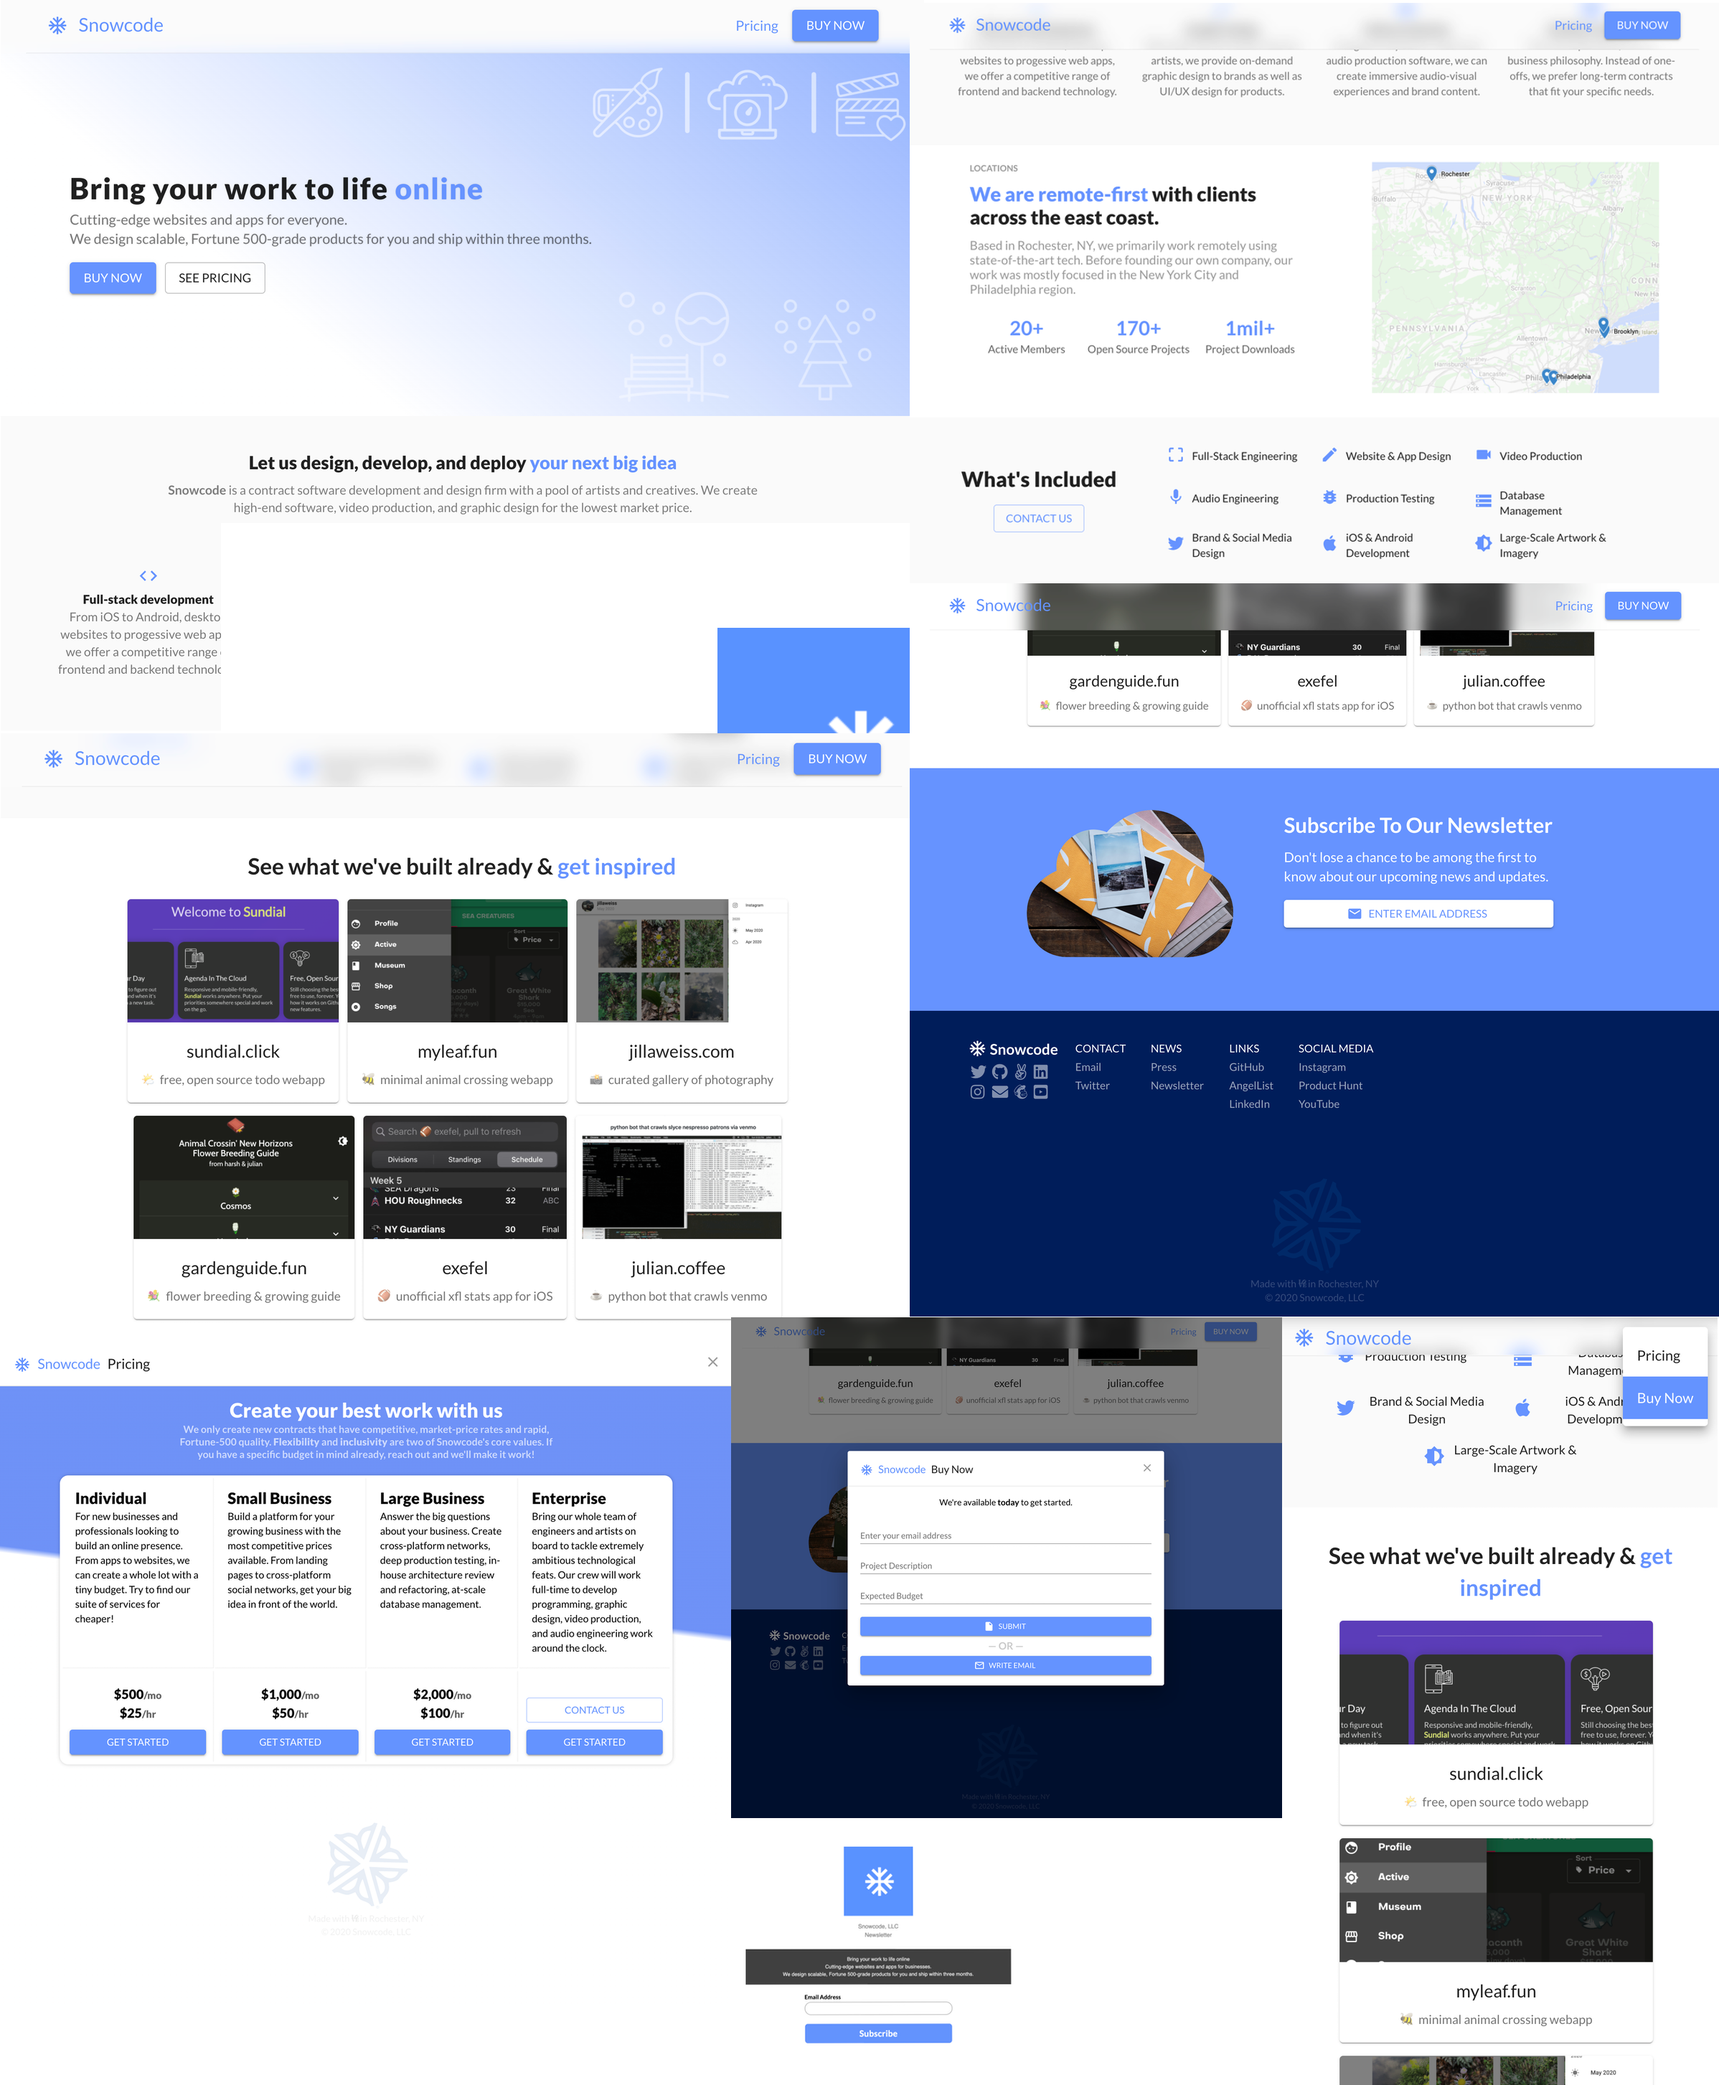
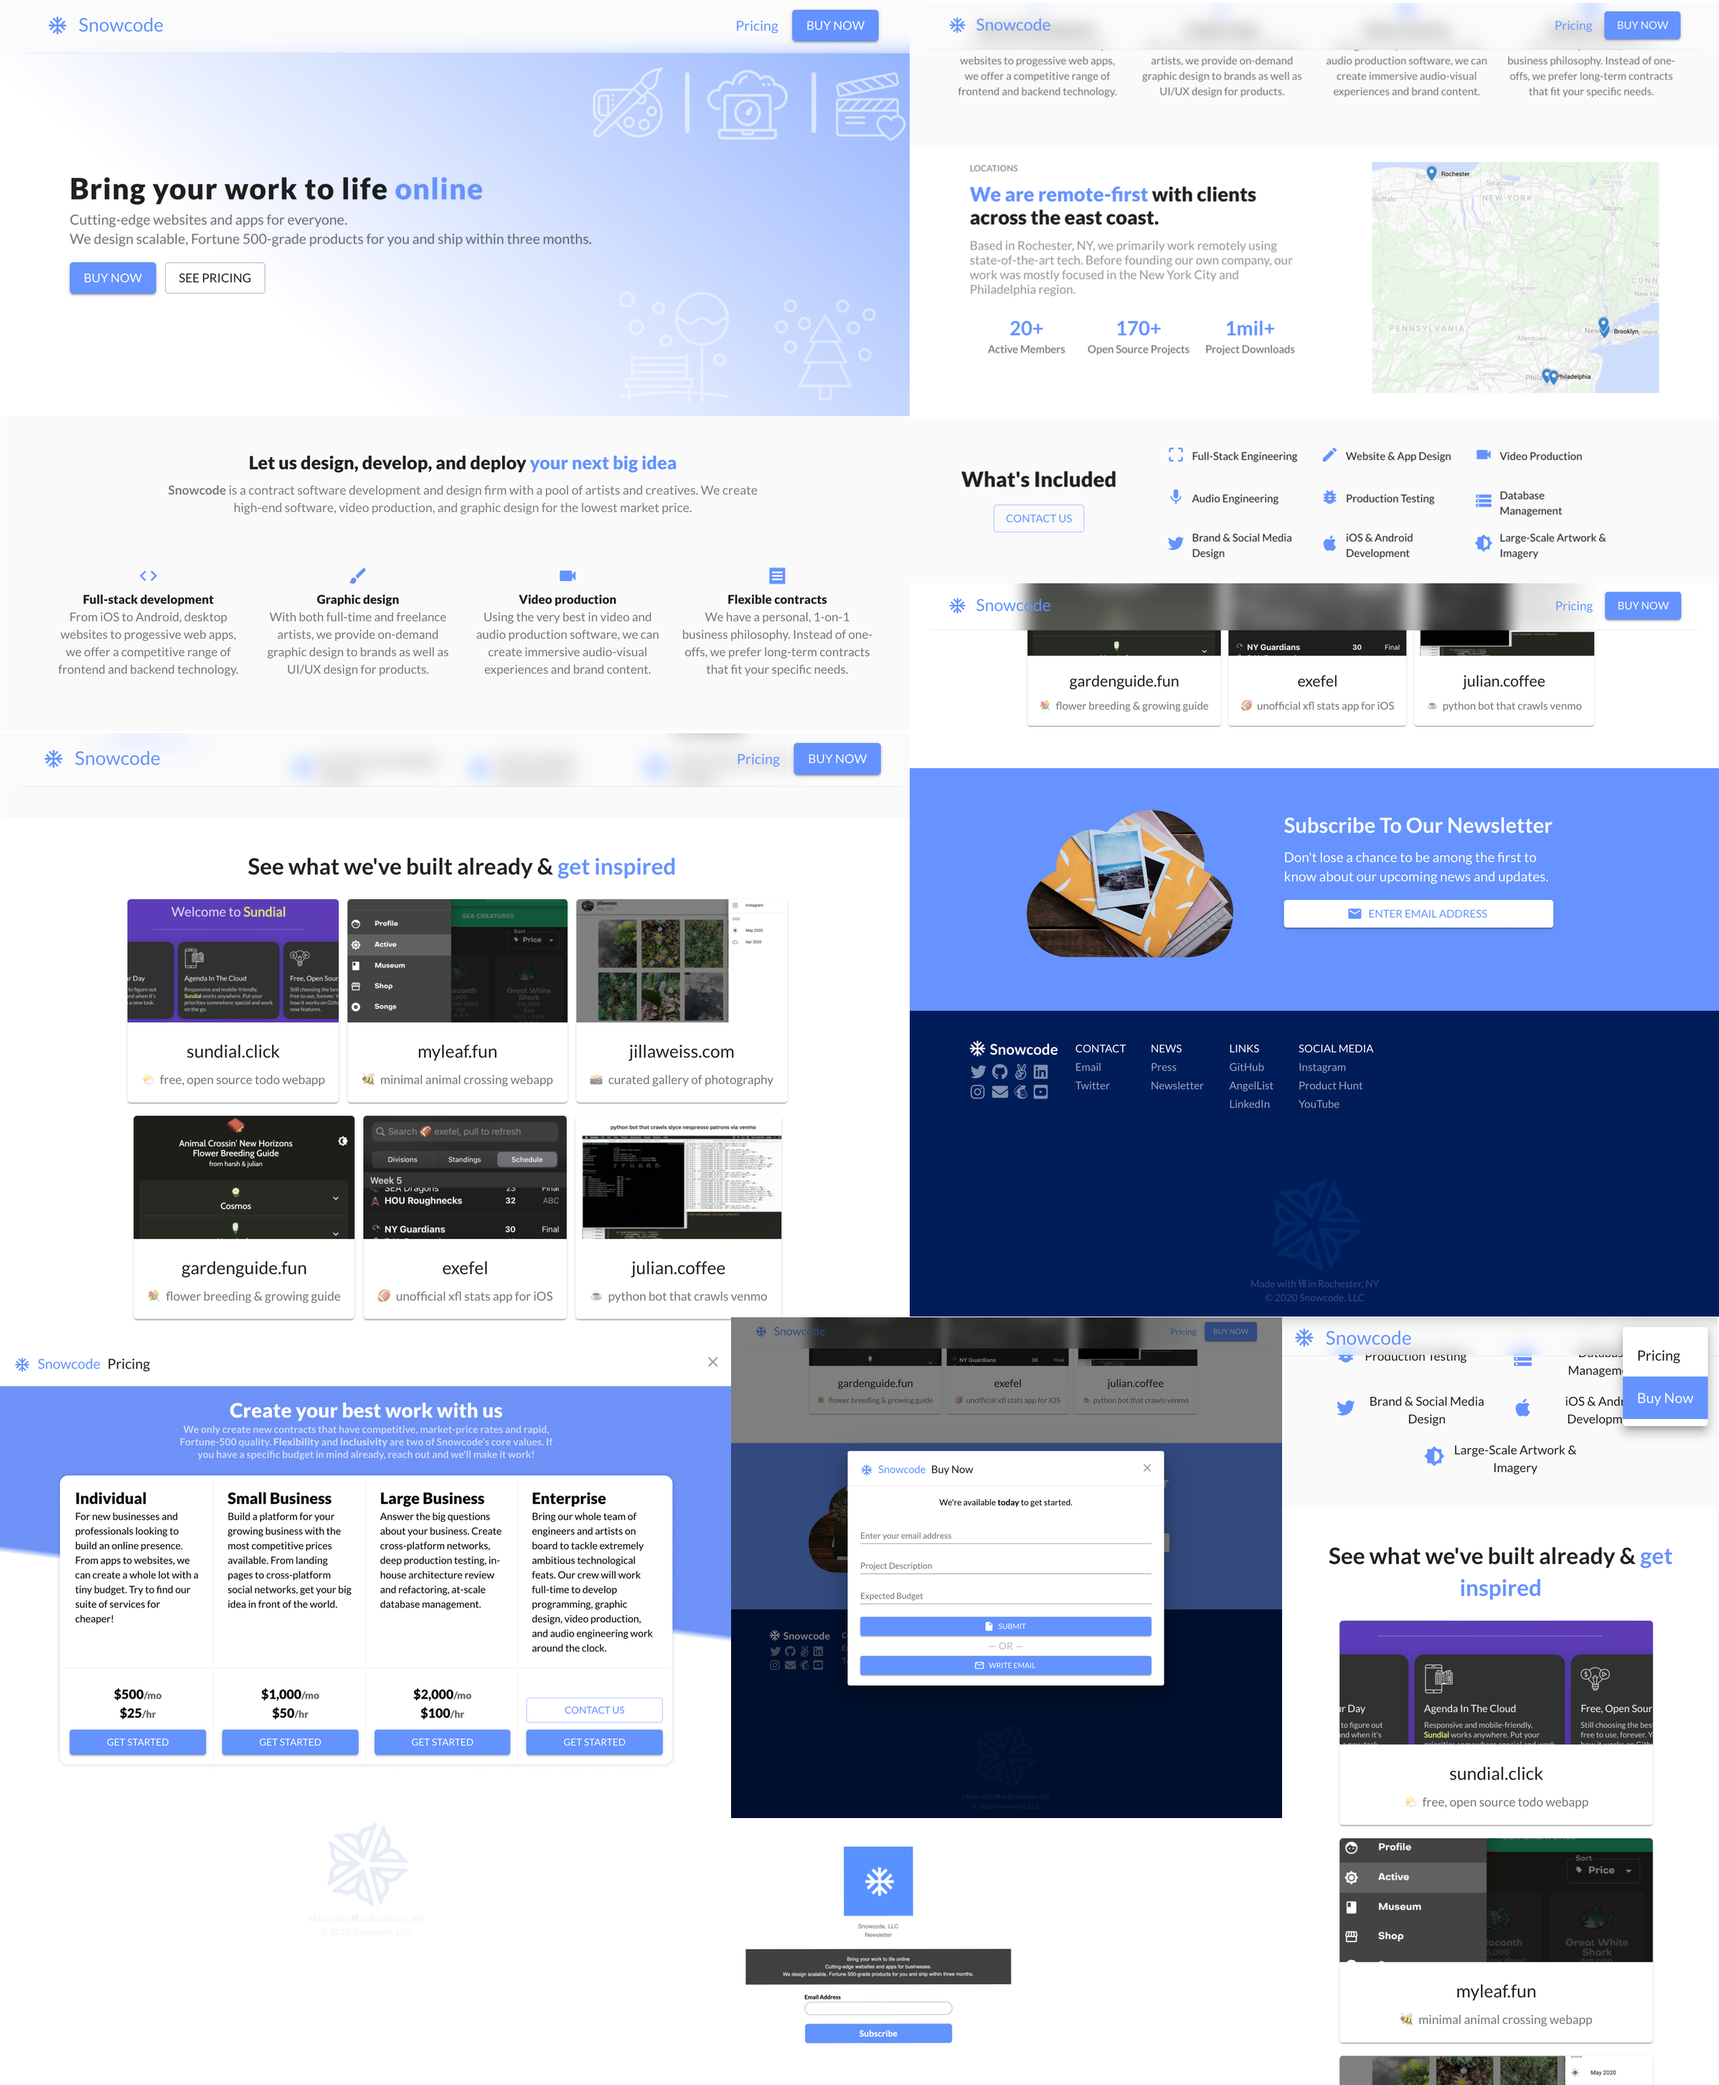
fix collage

Changed region(s): [[0.4015, 0.2787, 0.5559, 0.3716], [0.278, 0.2787, 0.3706, 0.3407], [0.1544, 0.2787, 0.2471, 0.3407]]

diff --git a/README.md b/README.md
@@ -3,7 +3,7 @@
 
 ## See live at [http://snowcode.design](http://snowcode.design)!
 
-![](collage.jpg)
+![](collage_fixed.jpg)
 
 ### Setting project up
 
